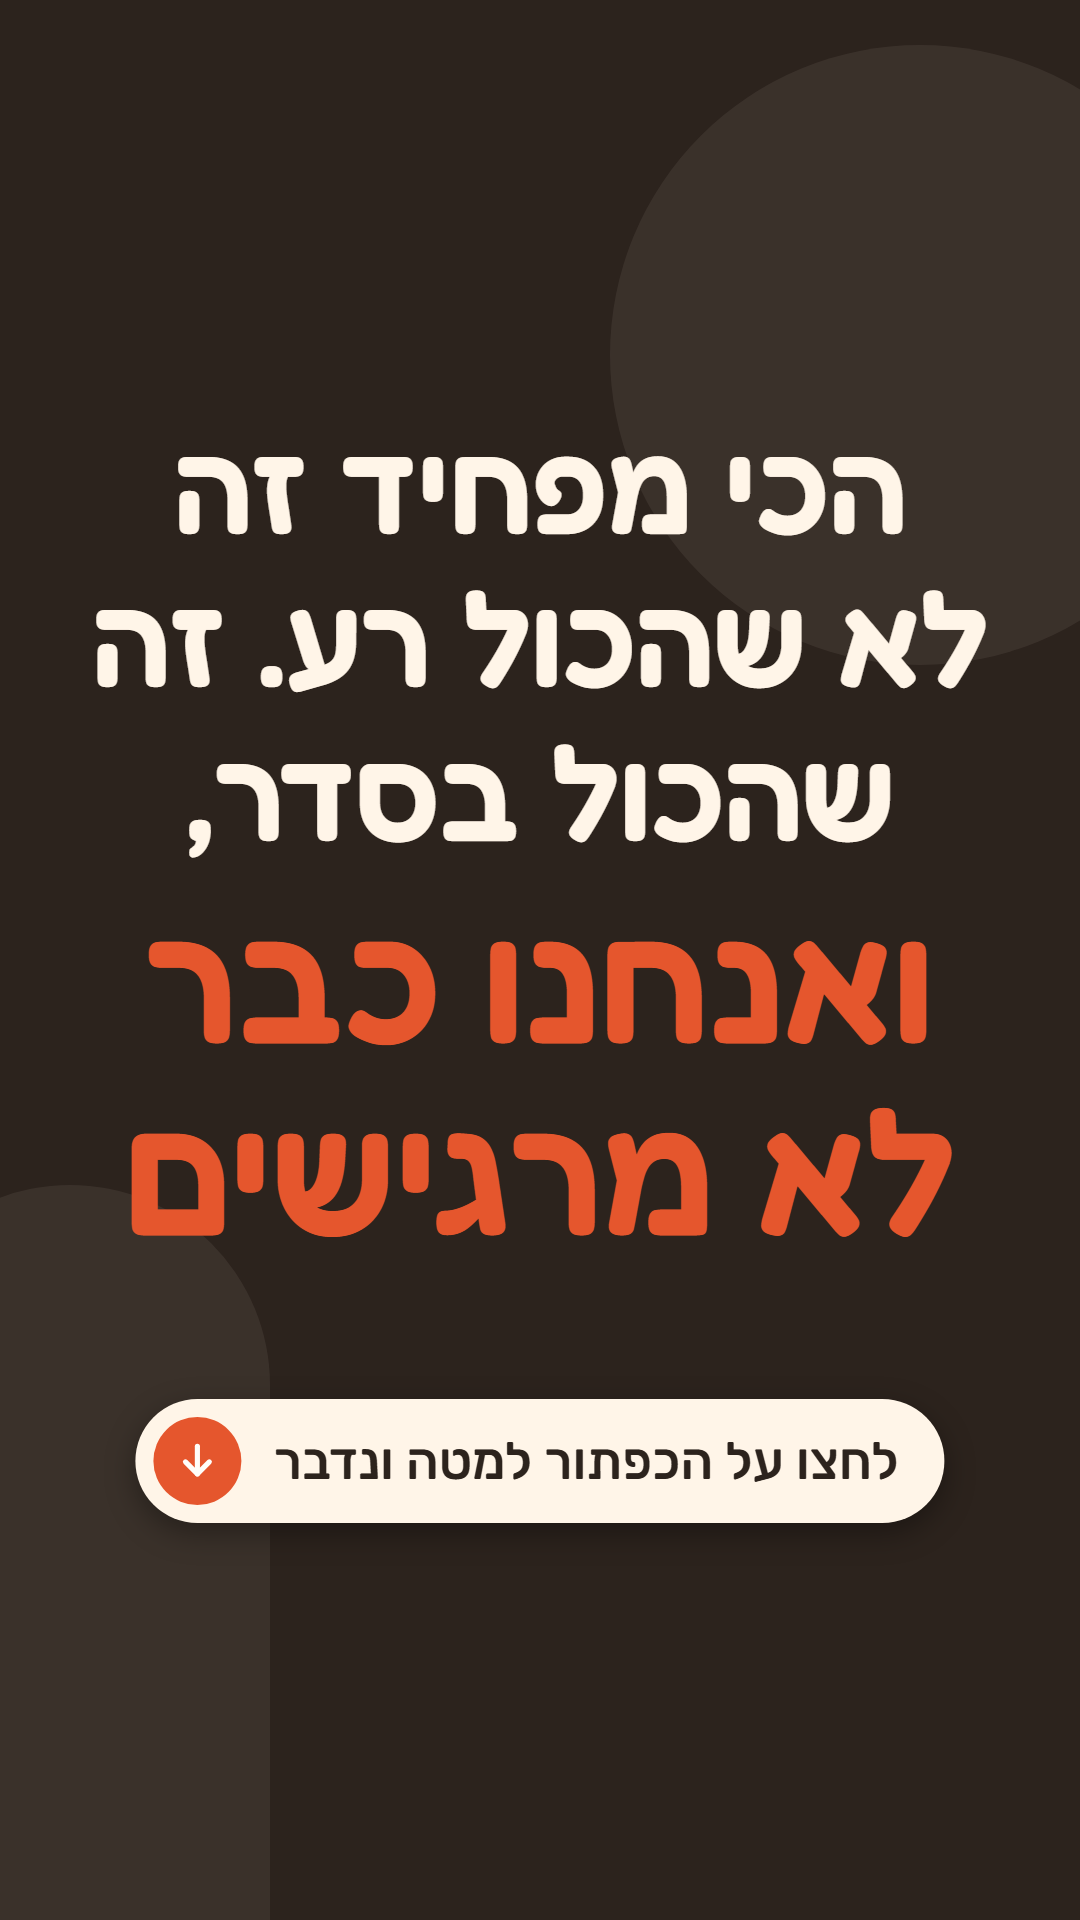
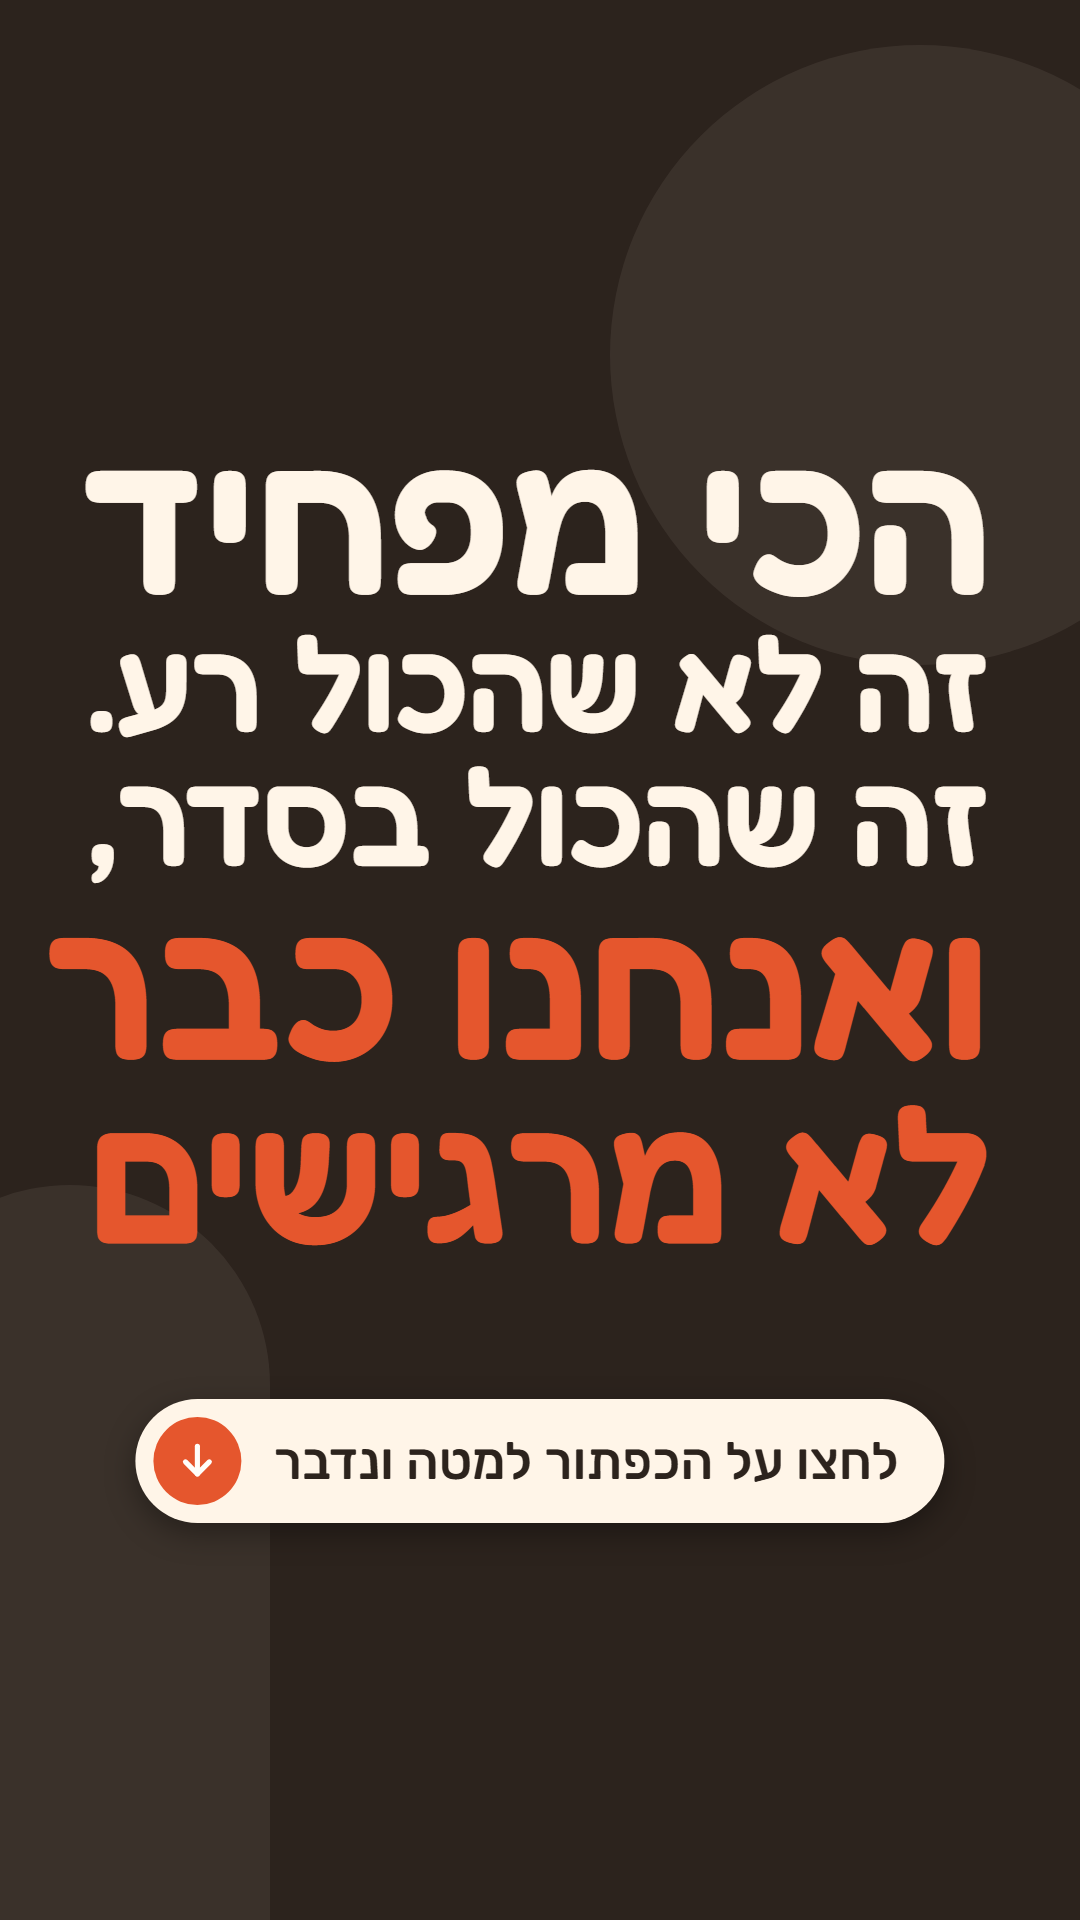
מודעות צ'אט: הטקסט כמלבן אחד, כל שורה באותו רוחב והמילים החזקות ענקיות

Changed region(s): [[0.0306, 0.2188, 0.9167, 0.6562], [0.5194, 0.5938, 0.6722, 0.6562]]

diff --git a/ads/tools/build_chat_ads.py b/ads/tools/build_chat_ads.py
@@ -1,20 +1,22 @@
 # מודעות פייסבוק לצ'אט (chat/): תמונת טקסט 9:16 (1080x1920), כל התוכן באזור בטוח 4:5, שני צבעים, בלי צילומים.
 # הטקסטים מ-chat/openers.json (המפתח = ?c= בקישור). מה שב-[ ] מודגש. בתחתית: שורת הפניה לכפתור של פייסבוק שמתחת למודעה (חץ למטה), במקום שורת החיפוש של מודעות הגוגל.
 # הרצה: python ads/tools/build_chat_ads.py   -> ads/chat/img/chat-<מפתח>-916.png  (דורש Chrome)
-import json, pathlib, subprocess, tempfile, sys
+import json, pathlib, subprocess, tempfile, sys, html
 sys.path.insert(0, str(pathlib.Path(__file__).parent))
 import build_ads as B
 ROOT = B.ROOT
-# מפתח -> (המשפט, צבע הדגשה חי מהפלטה: coral / sage / terra, על רקע ink). שורות רגילות מימין לשמאל, וההדגשה גדולה יותר בשורה משלה.
+# מפתח -> (שורות, צבע הדגשה חי מהפלטה: coral / sage / terra, על רקע ink). כל שורה: (טקסט, צבע). הטקסט כולו נפרש כמלבן אחד:
+# כל שורה מוגדלת או מוקטנת לאותו רוחב בדיוק, ולכן מילים קצרות וחזקות נעשות ענקיות ושורות ארוכות קטנות. הטקסט המלא זהה ל-chat/openers.json.
 ADS = {
-  "touch": ("כמה זמן עבר מאז שמישהו [חיבק] אותנו בלי סיבה?", "#FF8A5C"),
-  "mask": ("העייפות הכי גדולה היא לא מהעבודה. היא מלהיות [בסדר] כל היום", "#8DB255"),
-  "numb": ("הכי מפחיד זה לא שהכול רע. זה שהכול בסדר, [ואנחנו כבר לא מרגישים]", "#E5562D"),
+  "touch": ([("כמה זמן עבר", "fg"), ("מאז שמישהו", "fg"), ("חיבק", "acc"), ("אותנו", "fg"), ("בלי סיבה?", "fg")], "#FF8A5C"),
+  "mask": ([("העייפות הכי גדולה", "fg"), ("היא לא מהעבודה.", "fg"), ("היא מלהיות", "fg"), ("בסדר", "acc"), ("כל היום", "fg")], "#8DB255"),
+  "numb": ([("הכי מפחיד", "fg"), ("זה לא שהכול רע.", "fg"), ("זה שהכול בסדר,", "fg"), ("ואנחנו כבר", "acc"), ("לא מרגישים", "acc")], "#E5562D"),
 }
 CTA = "לחצו על הכפתור למטה ונדבר"
 
-def page(text, acc):
+def page(lines, acc):
     bg, fg, deco = "#2C231D", "#FFF5E8", "rgba(255,245,232,.07)"   # ink, cream
+    rows = ''.join(f'<div class="{"acc" if c == "acc" else ""}"><span>{html.escape(t)}</span></div>' for t, c in lines)
     top, bot = B.SAFE + 120, B.SAFE + 350
     ch = B.H - top - bot
     return f'''<!doctype html><html lang="he" dir="rtl"><head><meta charset="utf-8">
@@ -27,7 +29,10 @@ body{{background:{bg};color:{fg};font-family:Fredoka,Rubik,sans-serif;position:r
 .c2{{position:absolute;left:-130px;bottom:0;width:400px;height:{450+B.SAFE}px;border-radius:200px 200px 0 0;background:{deco}}}
 .main{{position:absolute;left:90px;right:90px;top:{top}px;height:{ch}px;display:flex;align-items:center;justify-content:center;text-align:center}}
 #t{{font-weight:600;line-height:1.18}}
-#t em{{font-style:normal;color:{acc};display:block;font-size:1.32em;line-height:1.12;margin:.08em 0}}
+#t{{width:900px}}
+#t div{{white-space:nowrap;line-height:.92;height:auto;overflow:visible}}
+#t div span{{display:inline-block}}
+#t .acc{{color:{acc}}}
 .chat{{position:absolute;bottom:{B.SAFE+112}px;left:50%;transform:translateX(-50%);height:124px;display:flex;align-items:center;gap:26px;
   padding:0 46px 0 18px;border-radius:999px;background:#FFF5E8;border:0;box-shadow:0 10px 30px rgba(0,0,0,.35);white-space:nowrap}}
 .chat .q{{font-family:Rubik;font-size:52px;font-weight:500;color:#2C231D;line-height:1;display:flex;align-items:center}}
@@ -36,22 +41,24 @@ body{{background:{bg};color:{fg};font-family:Fredoka,Rubik,sans-serif;position:r
 .chat .go svg{{width:44px;height:44px}}
 </style></head><body>
 <div class="c1"></div><div class="c2"></div>
-<div class="main"><div id="t">{B.colored(text)}</div></div>
+<div class="main"><div id="t">{rows}</div></div>
 <div class="chat"><span class="q">{CTA}</span>
 <span class="go"><svg viewBox="0 0 24 24" fill="none" stroke="#FFFDF9" stroke-width="2.8" stroke-linecap="round" stroke-linejoin="round"><path d="M12 4v15"/><path d="m5.5 12.5 6.5 6.5 6.5-6.5"/></svg></span></div>
 <script>
 const t=document.getElementById('t'), box=t.parentElement;
-let fs=130; t.style.fontSize=fs+'px';
-while((t.offsetHeight>box.clientHeight||t.offsetWidth>box.clientWidth) && fs>30){{ fs-=4; t.style.fontSize=fs+'px'; }}
+function lay(W){{ t.style.width=W+'px'; for(const d of t.children){{ const sp=d.firstElementChild; d.style.fontSize='100px'; const w=sp.getBoundingClientRect().width; d.style.fontSize=(100*W/w)+'px'; d.style.marginBottom=(W*0.012)+'px'; }} }}
+let W=900; lay(W);
+if(t.offsetHeight>box.clientHeight){{ W=Math.floor(W*box.clientHeight/t.offsetHeight); lay(W); }}
 </script></body></html>'''
 
 def main():
     out = ROOT/"ads"/"chat"/"img"; out.mkdir(parents=True, exist_ok=True)
     tmp = pathlib.Path(tempfile.mkdtemp())
     openers = json.loads((ROOT/"chat"/"openers.json").read_text(encoding="utf-8"))["items"]
-    for key, (text, acc) in ADS.items():
-        assert key not in openers or B.plain(text).replace("'", "") == openers[key]["ad"].replace("‘", "").replace("’", "").replace("'", ""), key + ": הטקסט שונה מ-chat/openers.json"
-        f = tmp/(key+".html"); f.write_text(page(text, acc), encoding="utf-8")
+    for key, (lines, acc) in ADS.items():
+        full = " ".join(t for t, _ in lines)
+        assert key not in openers or full.replace("'", "") == openers[key]["ad"].replace("‘", "").replace("’", "").replace("'", ""), key + ": הטקסט שונה מ-chat/openers.json: " + full
+        f = tmp/(key+".html"); f.write_text(page(lines, acc), encoding="utf-8")
         name = f"chat-{key}-916.png"
         subprocess.run([B.CHROME, "--headless", "--disable-gpu", "--hide-scrollbars", f"--window-size={B.W},{B.H}", "--virtual-time-budget=6000",
                         f"--user-data-dir={tmp/('p'+key)}", f"--screenshot={out/name}", f.as_uri()], stdout=subprocess.DEVNULL, stderr=subprocess.DEVNULL, check=False)
